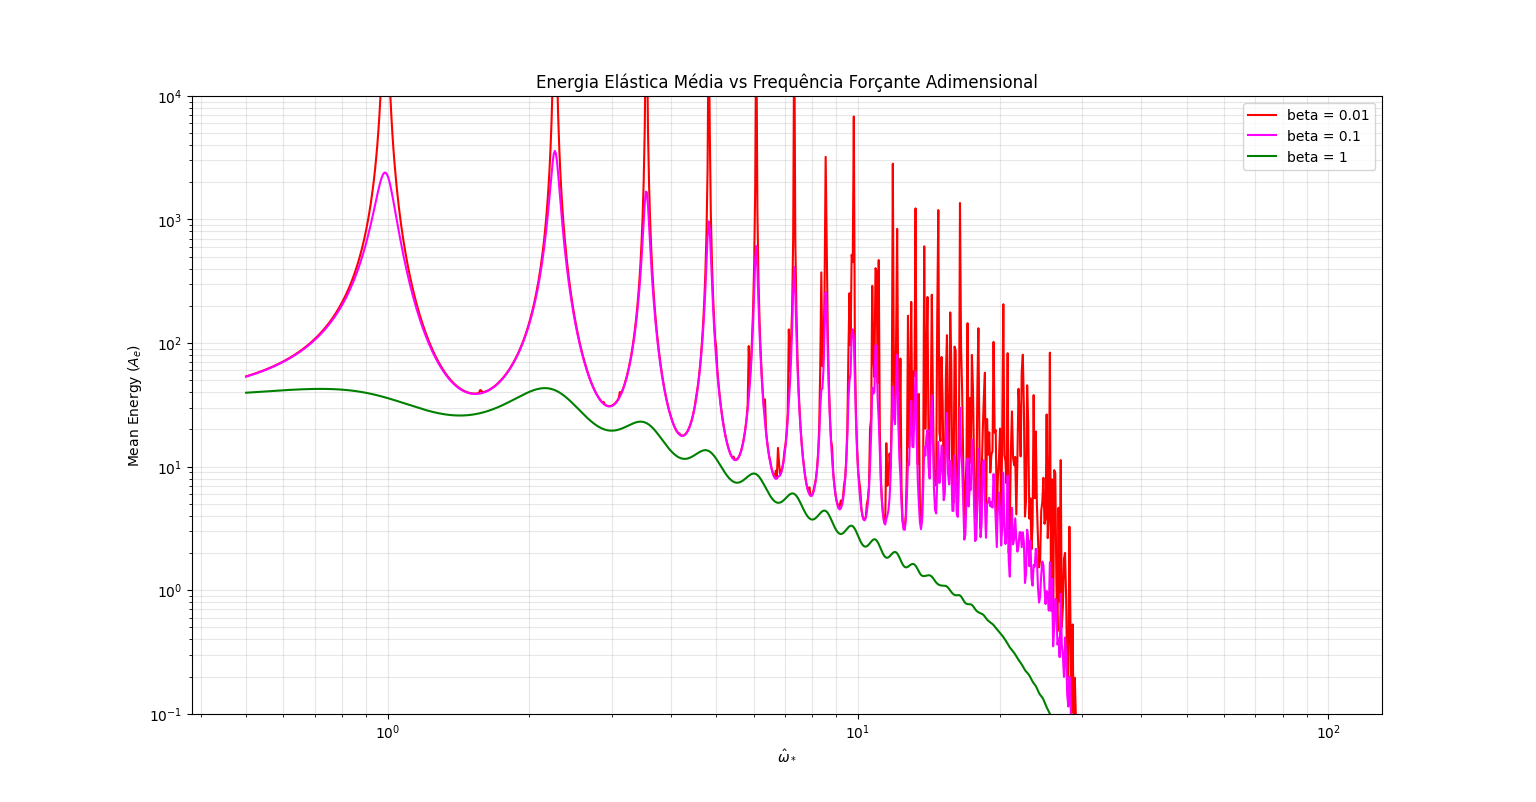
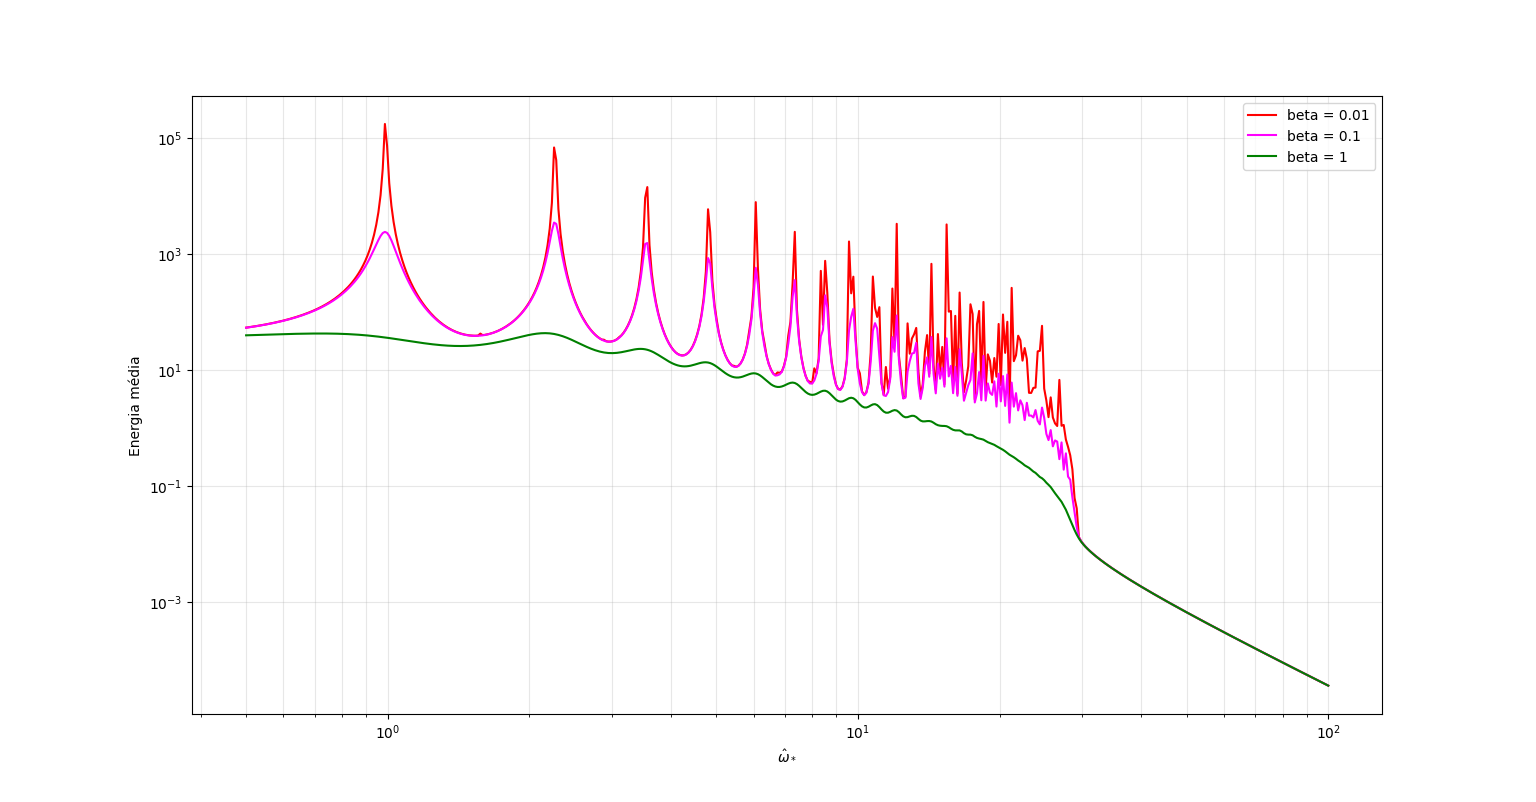
Ex 5 modos

diff --git a/src/classes/membrana_elastica.py b/src/classes/membrana_elastica.py
@@ -84,51 +84,34 @@ class MembranaElastica:
 
         return self.K, self.M
     
-    def solve_forced_coefficients(self, omega_star, beta, nmodes=10):
-        Lam, Phi = sp.sparse.linalg.eigsh(self.K, k=nmodes*4, M=self.M, which='SM')
-        
-        freqs_all = np.sqrt(np.real(Lam)) / (2 * np.pi)
-        f01_theory = 2.4048 / (2 * np.pi * self.R) * np.sqrt(self.sigma / (self.rho * self.e))
-        
-        mask = freqs_all > f01_theory / 2
-        Phi = Phi[:, mask][:, :nmodes]
-        omega_n = 2 * np.pi * freqs_all[mask][:nmodes]
-
-        Z = np.zeros(self.nunk)
-        for j in range(self.Ny):
-            for i in range(self.Nx):
-                xi = i / (self.Nx - 1)
-                yi = j / (self.Ny - 1)
-                Z[self.ij2n(i, j)] = (xi - 0.5)**2 + (yi - 0.5)**2
-
-        alphas = Phi.T @ Z
-
-        denominador = np.sqrt((-omega_star**2 + omega_n**2)**2 + (beta * omega_star)**2)
-        ci = alphas / denominador
-
-        return ci, alphas
-    
     def solve_modes(self, nmodes=10):
         assert(not(self.K is None or self.M is None))
 
-        k = min(nmodes*4, self.Nx*self.Ny - 1)
+        k = min(nmodes*2, self.Nx*self.Ny - 1)
 
-        Lam, _ = sp.sparse.linalg.eigsh(self.K, k=k, M=self.M, which='SM')
+        Lam, modes = sp.sparse.linalg.eigsh(self.K, k=k, M=self.M, which='SM')
 
         Lam = np.real(Lam)
         Lam = np.sort(Lam)
 
-        freq = np.sqrt(Lam)/(2*np.pi)
+        omega = np.sqrt(Lam)
+        freq = omega / (2 * np.pi)
 
-        f_01_theorical = 2.4048 / (2 * np.pi * self.R) * np.sqrt(self.sigma / (self.rho * self.e))
+        f01 = 2.4048 / (2 * np.pi * self.R) * np.sqrt(self.sigma / (self.rho * self.e))
 
-        freq = freq[freq > f_01_theorical / 2][:nmodes]
+        filter = freq > (f01 / 2)
 
-        return freq
+        freq = freq[filter][:nmodes]
+        omega = omega[filter][:nmodes]
+        modes = modes[:, filter][:, :nmodes]
+
+        return freq, omega, modes
 
     def plot_modes(self, nmodes=10):
-        freq = self.solve_modes(nmodes)
-        mode = np.linspace(1, nmodes, nmodes)
+        freq, _, _ = self.solve_modes(nmodes)
+
+        k = len(freq)
+        mode = np.linspace(1, k, k)
 
         plt.figure(figsize=(6,4))
         ax = plt.gca()
@@ -162,11 +145,11 @@ def ex_02():
 
     for (Nx, Ny) in grids:
         membrana = MembranaElastica(Nx, Ny, R)
-        modes = membrana.solve_modes(10)
+        freq, _, _ = membrana.solve_modes(10)
 
         print(f"| ({Nx}, {Ny})".ljust(13), end="|")
 
-        for f in modes:
+        for f in freq:
             print(f" {f:.2f}".ljust(10), end="|")
 
         print()
@@ -182,72 +165,93 @@ def ex_04():
     membrana = MembranaElastica(Nx, Ny, R)
     
     beta = 0.1
-    omega_star = 2 * np.pi * 5000
-    
-    ci, alphas = membrana.solve_forced_coefficients(omega_star, beta)
-    
-    print("Representação do termo forçante (alphas) e Coeficientes de Resposta (ci):")
-    print("-" * 60)
- 
-    print(f"{'Modo':<10} | {'alpha_i (Força)':<20} | {'c_i (Resposta)':<20}")
-    print("-" * 60)
- 
-    for i in range(len(ci)):
-        print(f"{i+1:<10} | {alphas[i]:<20.6e} | {ci[i]:<20.6e}")
+    f_star = 5000
+    omega_star = 2 * np.pi * f_star
+    n_solicitado = 10
+
+    freqs, omegas, modes = membrana.solve_modes(nmodes=n_solicitado)
+
+    modes_norm = np.zeros_like(modes)
+    for i in range(modes.shape[1]):
+        phi_i = modes[:, i]
+        norm_m = np.sqrt(phi_i.T @ (membrana.M @ phi_i))
+        modes_norm[:, i] = phi_i / norm_m
+
+    Z = np.zeros(membrana.nunk)
+    for j in range(membrana.Ny):
+        for i in range(membrana.Nx):
+            xi = i / (membrana.Nx - 1)
+            yi = j / (membrana.Ny - 1)
+            Z[membrana.ij2n(i, j)] = (xi - 0.5)**2 + (yi - 0.5)**2
+
+    alphas = modes_norm.T @ Z
+
+    denominador = np.sqrt((omegas**2 - omega_star**2)**2 + (beta * omega_star)**2)
+    ci = alphas / denominador
+
+    print(f"omega* = {omega_star} rad/s e beta = {beta}")
+    print("-" * 80)
+    print(f"| {'Modo':<6} | {'Freq Nat (Hz)':<15} | {'alpha_i (Força)':<20} | {'c_i (Resposta)':<20}")
+    print("-" * 80)
+
+    for i in range(len(freqs)):
+        print(f"{i+1:<6} | {freqs[i]:<15.2f} | {alphas[i]:<20.6e} | {ci[i]:<20.6e}")
+    print("-" * 80)
+
+    return ci, alphas
     
 def ex_05():
     R = 0.4e-2
     Nx, Ny = 51, 51
     membrana = MembranaElastica(Nx, Ny, R)
     
-    omega_star_hat_range = np.logspace(np.log10(0.5), np.log10(100), 1000)
+    ws_hat_range = np.logspace(np.log10(0.5), np.log10(100), 500)
     betas = [0.01, 0.1, 1]
-    nmodes = Nx*Ny-1
+    
+    omega_ref = (2.4048 / R) * np.sqrt(membrana.sigma / (membrana.rho * membrana.e))
 
-    freqs = membrana.solve_modes(nmodes)
-    omega_i_fisico = 2 * np.pi * freqs
+    freqs, omegas, modes = membrana.solve_modes(nmodes=membrana.nunk-1)
 
-    omega_ref = (2.4048 / membrana.R) * np.sqrt(membrana.sigma / (membrana.rho * membrana.e))
-
-    omega_i_hat = omega_i_fisico / omega_ref
-
-    Lam, Phi = sp.sparse.linalg.eigsh(membrana.K, k=nmodes, M=membrana.M, which='SM')
-    f01_theory = 2.4048 / (2 * np.pi * membrana.R) * np.sqrt(membrana.sigma / (membrana.rho * membrana.e))
-    mask = (np.sqrt(np.real(Lam))/(2*np.pi)) > f01_theory / 2
-    Phi_physical = Phi[:, mask][:, :nmodes]
+    modes_norm = np.zeros_like(modes)
+    for i in range(modes.shape[1]):
+        phi_i = modes[:, i]
+        norm_m = np.sqrt(phi_i.T @ (membrana.M @ phi_i))
+        modes_norm[:, i] = phi_i / norm_m
 
     Z = np.zeros(membrana.nunk)
     for j in range(membrana.Ny):
         for i in range(membrana.Nx):
-            xi, yi = i / (membrana.Nx - 1), j / (membrana.Ny - 1)
+            xi, yi = i / (Nx - 1), j / (Ny - 1)
             Z[membrana.ij2n(i, j)] = (xi - 0.5)**2 + (yi - 0.5)**2
+    
+    alphas = modes_norm.T @ Z
 
-    alphas = Phi_physical.T @ Z
+    omega_n_hat = omegas / omega_ref
 
     plt.figure(figsize=(10, 6))
     colors = ['red', 'magenta', 'green']
 
     for beta, color in zip(betas, colors):
         Ae_list = []
-        for ws_hat in omega_star_hat_range:
-            denominador = np.sqrt((-ws_hat**2 + omega_i_hat**2)**2 + (beta * ws_hat)**2)
+        for ws_hat in ws_hat_range:
+            denominador = np.sqrt((omega_n_hat**2 - ws_hat**2)**2 + (beta * ws_hat)**2)
             ci = alphas / denominador
             
-            Ae = 0.25 * np.sum((ci**2) * (omega_i_hat**2))
+            Ae = 0.25 * np.sum((ci**2) * (omega_n_hat**2))
             Ae_list.append(Ae)
         
-        plt.loglog(omega_star_hat_range, Ae_list, label=f'beta = {beta}', color=color)
+        plt.loglog(ws_hat_range, Ae_list, label=f'beta = {beta}', color=color, lw=1.5)
 
-    plt.title("Energia Elástica Média vs Frequência Forçante Adimensional")
     plt.xlabel("$\hat{\omega}_*$")
-    plt.ylabel("Mean Energy ($A_e$)")
-    plt.ylim(1e-1, 1e4)
+    plt.ylabel("Energia média")
     plt.grid(True, which="both", ls="-", alpha=0.3)
     plt.legend()
     plt.show()
 
 def main():
-    ex_02()
+    # ex_02()
+    # ex_04()
+    ex_05()
 
 if __name__ == "__main__":
     main()